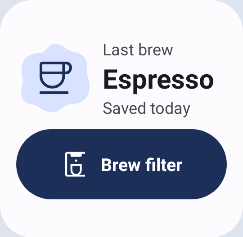
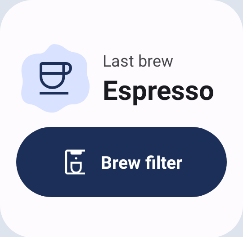
Remove the saved-age line from the brew widget
The last-brew widget now shows only its title and method above the suggestion action. Drop the unused age strings, BrewAge helper and their tests, and regenerate the JVM widget screenshots.

diff --git a/app/src/main/java/io/github/mateuxlucax/caparao/BrewWidgetProvider.kt b/app/src/main/java/io/github/mateuxlucax/caparao/BrewWidgetProvider.kt
@@ -12,13 +12,10 @@ import android.widget.RemoteViews
 import io.github.mateuxlucax.caparao.model.Brew
 import io.github.mateuxlucax.caparao.model.BrewMode
 import io.github.mateuxlucax.caparao.ui.components.label
-import io.github.mateuxlucax.caparao.ui.widget.BrewAge
 import io.github.mateuxlucax.caparao.ui.widget.BrewWidgetRefresh
 import io.github.mateuxlucax.caparao.ui.widget.actionIconForWidget
-import io.github.mateuxlucax.caparao.ui.widget.brewAge
 import io.github.mateuxlucax.caparao.ui.widget.shortcutForWidget
 import io.github.mateuxlucax.caparao.ui.widget.suggestedModeAfter
-import java.time.ZoneId
 import kotlinx.coroutines.CoroutineScope
 import kotlinx.coroutines.Dispatchers
 import kotlinx.coroutines.SupervisorJob
@@ -47,8 +44,7 @@ class BrewWidgetProvider : AppWidgetProvider() {
                 BrewWidgetRefresh.run(
                     read = { (context.applicationContext as CaparaoApplication).container.brews.latest() },
                     publish = { latest ->
-                        val now = System.currentTimeMillis()
-                        appWidgetIds.forEach { id -> manager.updateAppWidget(id, views(context, id, latest, now)) }
+                        appWidgetIds.forEach { id -> manager.updateAppWidget(id, views(context, id, latest)) }
                     },
                 )
             } catch (failure: Exception) {
@@ -59,7 +55,7 @@ class BrewWidgetProvider : AppWidgetProvider() {
         }
     }
 
-    internal fun views(context: Context, appWidgetId: Int, latest: Brew?, now: Long): RemoteViews {
+    internal fun views(context: Context, appWidgetId: Int, latest: Brew?): RemoteViews {
         val views = RemoteViews(context.packageName, R.layout.widget_brew)
         val mode = latest?.mode
         val suggestedMode = mode?.let(::suggestedModeAfter)
@@ -80,7 +76,6 @@ class BrewWidgetProvider : AppWidgetProvider() {
             views.setViewVisibility(R.id.widget_last_brew, View.VISIBLE)
             views.setViewVisibility(R.id.widget_empty_content, View.GONE)
             views.setTextViewText(R.id.widget_method, context.getString(latest.mode.label))
-            views.setTextViewText(R.id.widget_age, savedAge(context, latest, now))
         }
         val actionLabel = context.getString(actionLabel(suggestedMode))
         views.setTextViewText(R.id.widget_action_label, actionLabel)
@@ -109,12 +104,6 @@ class BrewWidgetProvider : AppWidgetProvider() {
         mode == null -> R.string.widget_brew_coffee
         mode == BrewMode.FILTER -> R.string.widget_brew_filter
         else -> R.string.widget_brew_espresso
-    }
-
-    private fun savedAge(context: Context, brew: Brew, nowMs: Long): String = when (val age = brewAge(brew, nowMs, ZoneId.systemDefault())) {
-        BrewAge.Today -> context.getString(R.string.widget_saved_today)
-        BrewAge.Yesterday -> context.getString(R.string.widget_saved_yesterday)
-        is BrewAge.DaysAgo -> context.resources.getQuantityString(R.plurals.widget_saved_days, age.days, age.days)
     }
 
     companion object {

diff --git a/app/src/test/java/io/github/mateuxlucax/caparao/ui/widget/BrewWidgetBehaviorTest.kt b/app/src/test/java/io/github/mateuxlucax/caparao/ui/widget/BrewWidgetBehaviorTest.kt
@@ -4,11 +4,8 @@ import android.content.Context
 import android.content.res.Configuration
 import androidx.test.core.app.ApplicationProvider
 import io.github.mateuxlucax.caparao.R
-import io.github.mateuxlucax.caparao.model.Brew
 import io.github.mateuxlucax.caparao.model.BrewMode
 import io.github.mateuxlucax.caparao.ui.launcher.LauncherShortcut
-import java.time.ZoneId
-import java.time.ZonedDateTime
 import java.util.Locale
 import org.junit.Assert.assertEquals
 import org.junit.Assert.assertNull
@@ -36,42 +33,6 @@ class BrewWidgetBehaviorTest {
     }
 
     @Test
-    fun elapsedAgeUsesTheBrewEndAndLocalCalendarBoundaries() {
-        val zone = ZoneId.of("America/Sao_Paulo")
-        val endBeforeMidnight = millis("2026-11-01T23:59:00-03:00")
-        val twoMinutesAfterMidnight = millis("2026-11-02T00:01:00-03:00")
-        val nextDay = millis("2026-11-02T23:59:00-03:00")
-        val secondDay = millis("2026-11-03T00:00:00-03:00")
-
-        assertEquals(BrewAge.Yesterday, brewAge(endBeforeMidnight, twoMinutesAfterMidnight, zone))
-        assertEquals(BrewAge.Today, brewAge(twoMinutesAfterMidnight, nextDay, zone))
-        assertEquals(BrewAge.DaysAgo(2), brewAge(endBeforeMidnight, secondDay, zone))
-        assertEquals(BrewAge.Today, brewAge(secondDay, endBeforeMidnight, zone))
-    }
-
-    @Test
-    fun elapsedAgeUsesStartedAtPlusDurationAcrossMidnight() {
-        val zone = ZoneId.of("America/Sao_Paulo")
-        val startedAt = millis("2026-11-01T23:59:00-03:00")
-        val brew = Brew("cross-midnight", BrewMode.ESPRESSO, startedAt, 120_000, 18.0, 36.0, 4_000, 1.3, 2.4, false)
-
-        assertEquals(BrewAge.Today, brewAge(brew, millis("2026-11-02T00:02:00-03:00"), zone))
-        assertEquals(BrewAge.Yesterday, brewAge(brew, millis("2026-11-03T00:02:00-03:00"), zone))
-    }
-
-    @Test
-    fun relativeLabelsFollowEnglishAndBrazilianPortugueseResources() {
-        val base = ApplicationProvider.getApplicationContext<Context>()
-        val english = localized(base, Locale.US)
-        val portuguese = localized(base, Locale.forLanguageTag("pt-BR"))
-
-        assertEquals("Saved today", english.getString(R.string.widget_saved_today))
-        assertEquals("Salvo hoje", portuguese.getString(R.string.widget_saved_today))
-        assertEquals("Saved 2 days ago", english.resources.getQuantityString(R.plurals.widget_saved_days, 2, 2))
-        assertEquals("Salvo há 2 dias", portuguese.resources.getQuantityString(R.plurals.widget_saved_days, 2, 2))
-    }
-
-    @Test
     fun emptyWidgetUsesATitleAndGenericAction() {
         val base = ApplicationProvider.getApplicationContext<Context>()
         val english = localized(base, Locale.US)
@@ -85,6 +46,4 @@ class BrewWidgetBehaviorTest {
 
     private fun localized(context: Context, locale: Locale): Context =
         context.createConfigurationContext(Configuration(context.resources.configuration).apply { setLocale(locale) })
-
-    private fun millis(value: String): Long = ZonedDateTime.parse(value).toInstant().toEpochMilli()
 }

diff --git a/app/src/main/java/io/github/mateuxlucax/caparao/ui/widget/BrewWidgetBehavior.kt b/app/src/main/java/io/github/mateuxlucax/caparao/ui/widget/BrewWidgetBehavior.kt
@@ -1,12 +1,8 @@
 package io.github.mateuxlucax.caparao.ui.widget
 
-import io.github.mateuxlucax.caparao.model.Brew
 import io.github.mateuxlucax.caparao.model.BrewMode
 import io.github.mateuxlucax.caparao.ui.components.icon
 import io.github.mateuxlucax.caparao.ui.launcher.LauncherShortcut
-import java.time.Instant
-import java.time.ZoneId
-import java.time.temporal.ChronoUnit
 
 /** The widget alternates Espresso and Filter; any future mode (including French press) suggests Espresso. */
 internal fun suggestedModeAfter(latestMode: BrewMode): BrewMode =
@@ -19,25 +15,3 @@ internal fun actionIconForWidget(latestMode: BrewMode?): Int? =
 /** The widget's action always uses the same action MainActivity routes for launcher shortcuts. */
 internal fun shortcutForWidget(latestMode: BrewMode?): LauncherShortcut =
     latestMode?.let { LauncherShortcut.forMode(suggestedModeAfter(it)) } ?: LauncherShortcut.WIDGET_HOME
-
-internal sealed interface BrewAge {
-    data object Today : BrewAge
-    data object Yesterday : BrewAge
-    data class DaysAgo(val days: Int) : BrewAge
-}
-
-/** A coarse local-calendar age for a saved brew's end time; the widget makes no minute-level promise. */
-internal fun brewAge(endAtMs: Long, nowMs: Long, zone: ZoneId): BrewAge {
-    val endDate = Instant.ofEpochMilli(endAtMs).atZone(zone).toLocalDate()
-    val today = Instant.ofEpochMilli(nowMs).atZone(zone).toLocalDate()
-    val days = ChronoUnit.DAYS.between(endDate, today)
-    return when {
-        days <= 0 -> BrewAge.Today
-        days == 1L -> BrewAge.Yesterday
-        else -> BrewAge.DaysAgo(days.coerceAtMost(Int.MAX_VALUE.toLong()).toInt())
-    }
-}
-
-/** The widget treats a brew as ending at its saved start plus its recorded duration. */
-internal fun brewAge(brew: Brew, nowMs: Long, zone: ZoneId): BrewAge =
-    brewAge(brew.startedAt + brew.durationMs, nowMs, zone)

diff --git a/app/src/test/java/io/github/mateuxlucax/caparao/BrewWidgetLayoutTest.kt b/app/src/test/java/io/github/mateuxlucax/caparao/BrewWidgetLayoutTest.kt
@@ -35,7 +35,7 @@ class BrewWidgetLayoutTest {
                 val context = configured(base, locale, night)
                 for (latest in listOf(brew, null)) {
                     assertContrast(context)
-                    val root = BrewWidgetProvider().views(context, 123, latest, 28_000L).apply(context, null)
+                    val root = BrewWidgetProvider().views(context, 123, latest).apply(context, null)
                     root.measure(
                         View.MeasureSpec.makeMeasureSpec(minWidth, View.MeasureSpec.EXACTLY),
                         View.MeasureSpec.makeMeasureSpec(minHeight, View.MeasureSpec.EXACTLY),
@@ -88,7 +88,6 @@ class BrewWidgetLayoutTest {
                         assertEquals(View.GONE, root.findViewById<View>(R.id.widget_empty_content).visibility)
                         assertEquals(View.VISIBLE, root.findViewById<View>(R.id.widget_action_icon).visibility)
                         assertNoEllipsis(root.findViewById(R.id.widget_method), locale, night)
-                        assertNoEllipsis(root.findViewById(R.id.widget_age), locale, night)
                     }
                 }
             }

diff --git a/app/src/test/java/io/github/mateuxlucax/caparao/ui/screens/ScreenshotsTest.kt b/app/src/test/java/io/github/mateuxlucax/caparao/ui/screens/ScreenshotsTest.kt
@@ -207,7 +207,7 @@ abstract class ScreenshotsTest(private val lang: String, private val theme: Stri
             Box(Modifier.background(wallpaper)) {
                 key(latest) {
                     AndroidView(
-                        factory = { BrewWidgetProvider().views(context, 1, latest, 28_000L).apply(context, null) },
+                        factory = { BrewWidgetProvider().views(context, 1, latest).apply(context, null) },
                         modifier = Modifier.size(180.dp, 176.dp).testTag("widget"),
                     )
                 }
